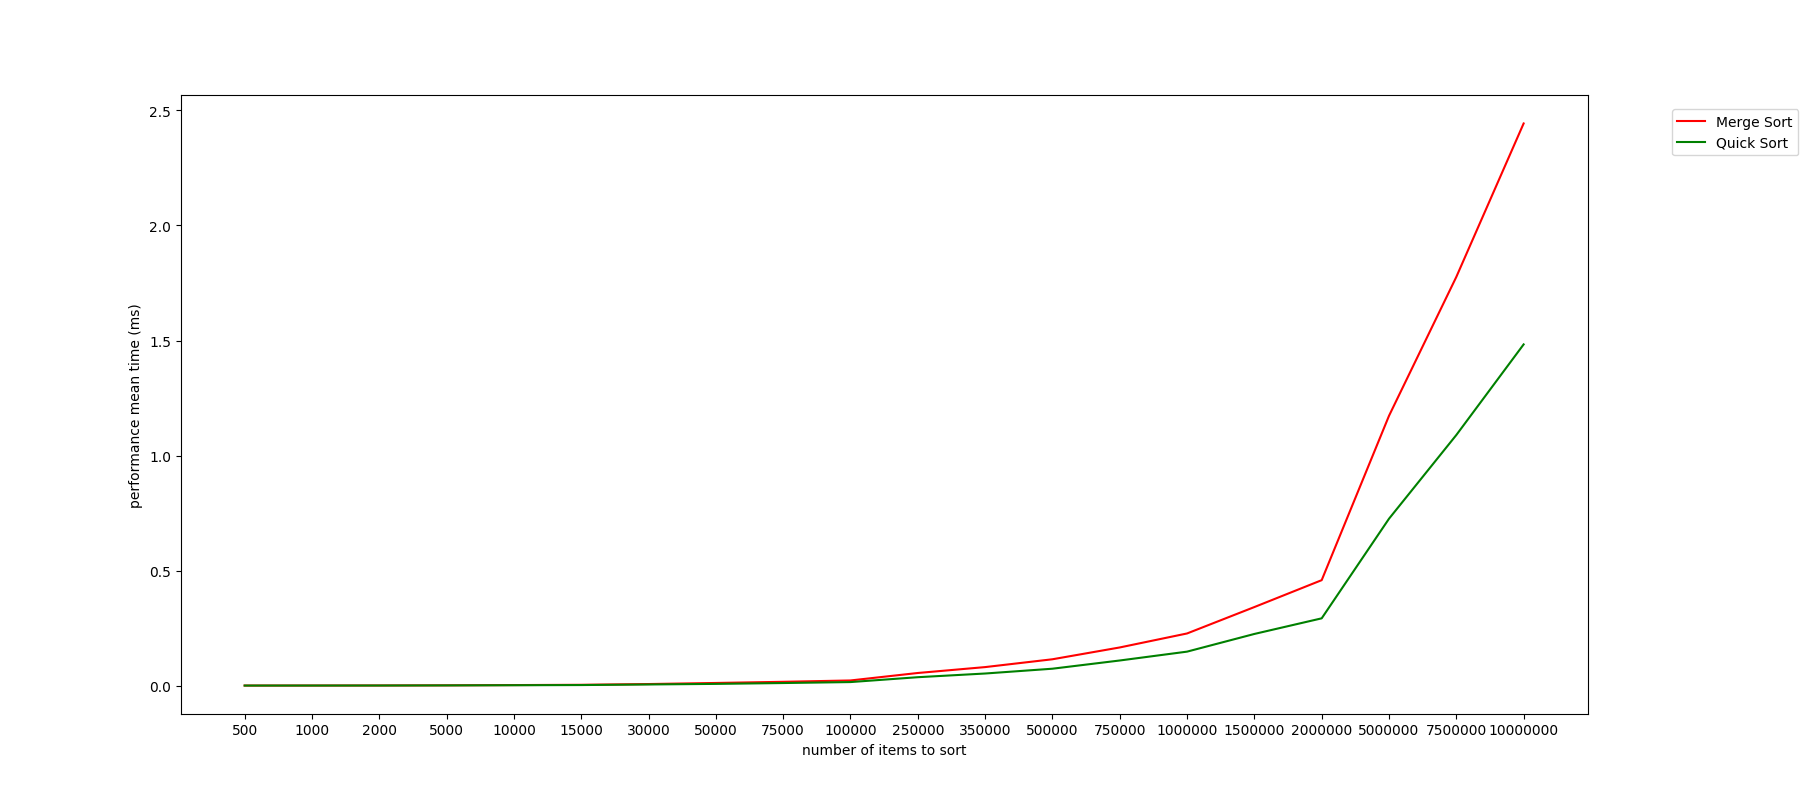
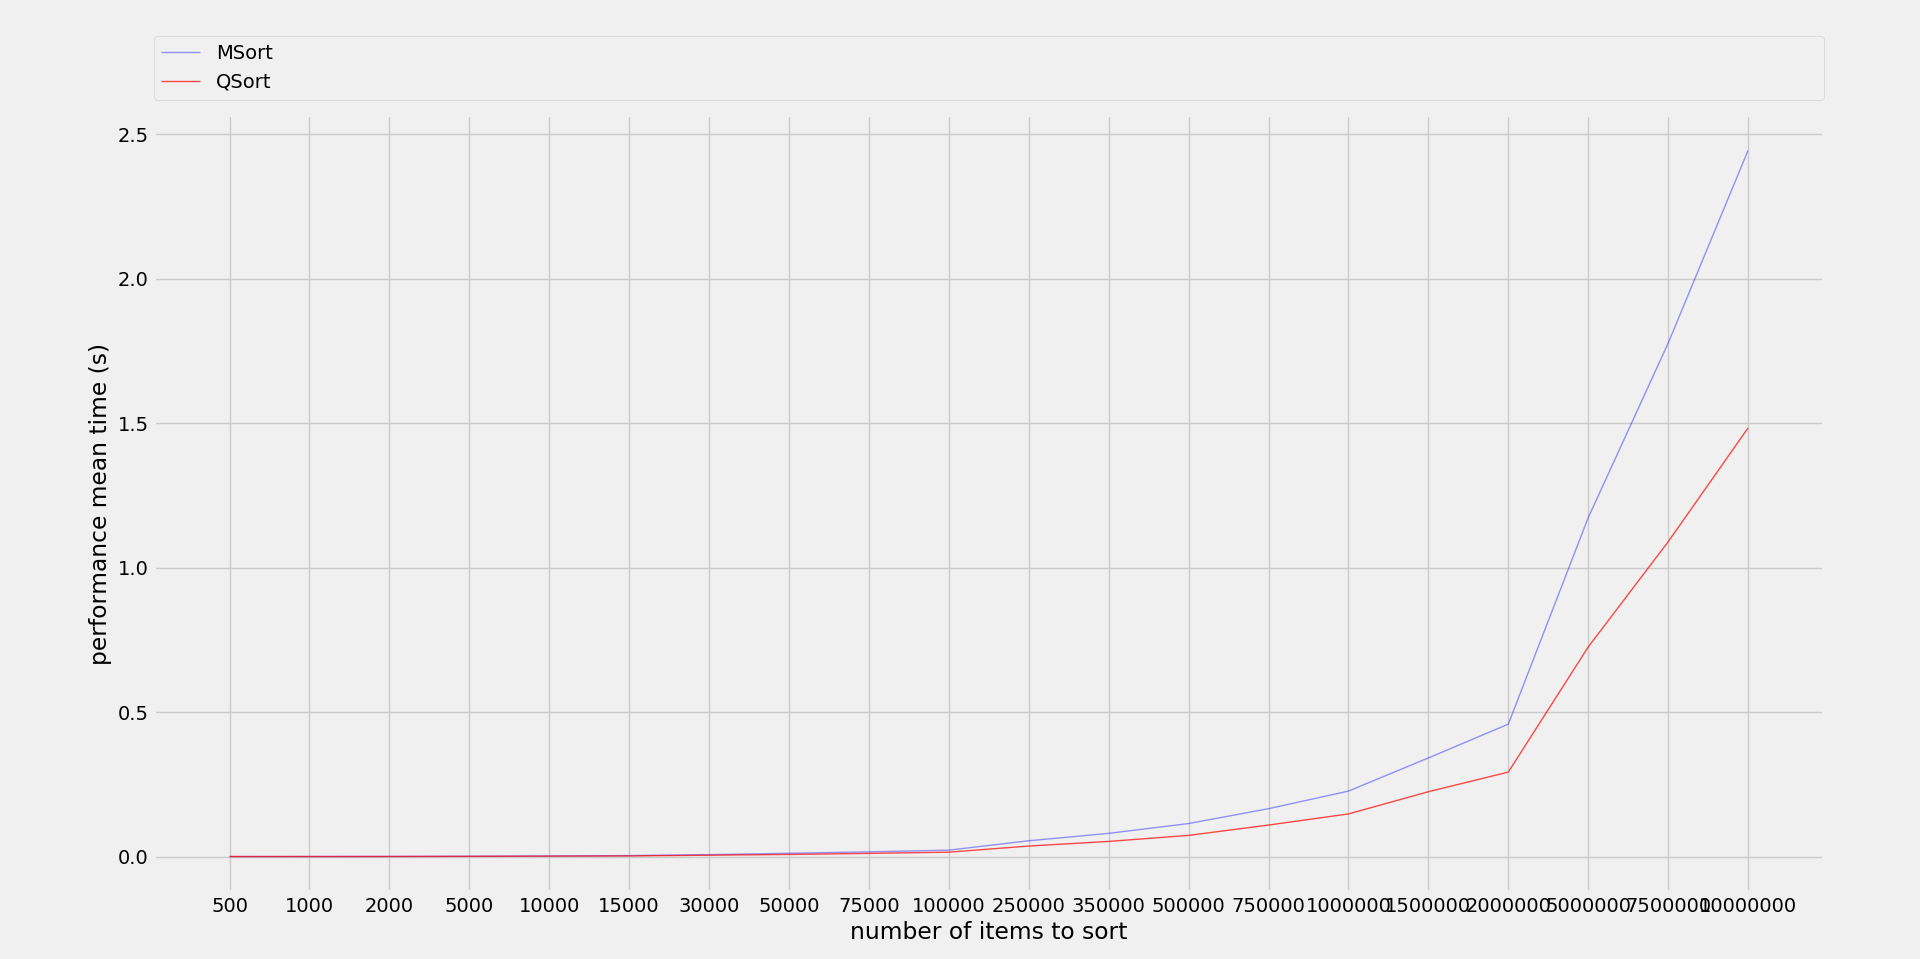
New update

diff --git a/src/quicksort_parallel.cpp b/src/quicksort_parallel.cpp
@@ -1,0 +1,113 @@
+
+#include <stdio.h>
+#include <stdlib.h>
+#include <time.h>
+#include <chrono>
+#include <iostream>
+#include <random>
+#include <algorithm>
+#include "mpi.h"
+#include <vector>
+
+using namespace std;
+
+const int LOWER = -100;
+const int UPPER = 100;
+const int DEF_SIZE = 100;
+
+void quicksort(int* array, int begin, int end);
+void hyperquicksort(int* array, int chunk, int size);
+
+int main(int argc, char** argv) {
+	auto start = std::chrono::system_clock::now();
+	int size = 0;
+	if(argc <= 1)
+		size = DEF_SIZE;
+	else 
+		size = atoi(argv[1]);
+	int rank, worldSize;
+	MPI_Init(NULL,NULL);
+	MPI_Comm_rank(MPI_COMM_WORLD, &rank);
+	MPI_Comm_size(MPI_COMM_WORLD, &worldSize);
+	int* unsorted = new int[size];
+	int* sorted = NULL;
+	if(rank == 0){
+		random_device randomDevice;
+		mt19937 mt(randomDevice());
+		uniform_int_distribution<int> dist(LOWER, UPPER);
+		for(int i = size; i--; )
+			unsorted[i] = dist(mt);
+	}
+    int chunk = size / worldSize;
+	int* subArray = new int[chunk];	
+    int middle = 0;
+    // Cada proceso comienza con un quicksort secuencial en su lista local
+    MPI_Scatter(unsorted, chunk, MPI_INT, subArray, chunk, MPI_INT, 0, MPI_COMM_WORLD);
+    quicksort(subArray, 0, chunk - 1);
+    MPI_Barrier(MPI_COMM_WORLD);
+    // Hyperquicksort
+    hyperquicksort(subArray, chunk, size);
+    for(int i = 0; i < worldSize; i++){
+        if(i != rank){
+        // Dividimos el array segun el pivote y lo compartimos
+        vector<int> lesser;
+        vector<int> greater;
+        for(int i = 0; i < size; i++){
+            if(array[i] < middle)
+                lesser.push_back(array[i]);
+            else
+                greater.push_back(array[i]);
+        }
+        int* lesserRaw = &lesser[0];
+        int* greaterRaw = &greater[0];
+        
+        }
+    }
+    return 0;
+}
+
+void hyperquicksort(int* array, int chunk, int size) {
+    if(rank == 0){ // El master elige el pivote
+        middle = subArray[(0 + chunk) / 2];
+        MPI_Bcast(&middle, sizeof(int), MPI_INT, 0, MPI_COMM_WORLD); // Lo envia al resto
+    }
+    MPI_Barrier(MPI_COMM_WORLD);
+    // Dividimos la lista
+    vector<int> lesser, greater;
+    for(int i = 0; i < chunk; i++){
+        if(array[i] < middle)
+            lesser.push_back(array[i]);
+        else
+            greater.push_back(array[i]);
+    }
+    int* lesserRaw = &lesser[0];
+    int* greaterRaw = &greater[0];
+    int* localList = new int[chunk];
+    int tag = 10;
+    
+    MPI_Send(greaterRaw, sizeof(greaterRaw), MPI_INT, dest, tag, 
+    MPI_COMM_WORLD);
+}
+
+void quicksort(int* array, int begin, int end) {
+	int pivot = array[(begin + end) / 2];
+	int i = begin, j = end;
+	while(i <= j){
+		while(array[i] < pivot)
+			i++;
+		while(array[j] > pivot)
+			j--;
+		if(i <= j){
+			int temp = array[i];
+			array[i] = array[j];
+			array[j] = temp;
+			i++;
+			j--;
+		}
+	}
+	if(begin < j)
+		quicksort(array, begin, j);
+	if(i < end)
+		quicksort(array, i, end);
+}
+

diff --git a/src/psrs.cpp b/src/psrs.cpp
@@ -1,0 +1,103 @@
+
+#include <stdio.h>
+#include <stdlib.h>
+#include <time.h>
+#include <chrono>
+#include <iostream>
+#include <random>
+#include <algorithm>
+#include "mpi.h"
+#include <vector>
+
+using namespace std;
+
+const int LOWER = -100;
+const int UPPER = 100;
+const int DEF_SIZE = 100;
+
+void quicksort(int* array, int begin, int end) {
+	int pivot = array[(begin + end) / 2];
+	int i = begin, j = end;
+	while(i <= j){
+		while(array[i] < pivot)
+			i++;
+		while(array[j] > pivot)
+			j--;
+		if(i <= j){
+			int temp = array[i];
+			array[i] = array[j];
+			array[j] = temp;
+			i++;
+			j--;
+		}
+	}
+	if(begin < j)
+		quicksort(array, begin, j);
+	if(i < end)
+		quicksort(array, i, end);
+}
+
+void sample(int* subArray, int* sampling, int size, int worldSize) {
+    int count = 0;
+    int index = 0;
+    int i = 0;
+    while(count < worldSize){
+        sampling[i] = subArray[index];
+        i++;
+        index = (i * size) / pow(wordlSize, 2);
+        count++;
+    }
+}
+
+void split(int* array, int size, int rank, int pieces, firstP, secondP) {
+    vector<vector<int>> partitions(pieces, vector<int>);
+    for(int i = 0; i < size; i++){
+        if(array[i] < firstP)
+           partitions[] 
+    }
+}
+
+int main(int argc, char** argv){
+    auto start = std::chrono::system_clock::now();
+	int size = 0;
+	if(argc <= 1)
+		size = DEF_SIZE;
+	else 
+		size = atoi(argv[1]);
+	int rank, worldSize;
+	MPI_Init(NULL,NULL);
+	MPI_Comm_rank(MPI_COMM_WORLD, &rank);
+	MPI_Comm_size(MPI_COMM_WORLD, &worldSize);
+	int* unsorted = new int[size];
+	int* sorted = NULL;
+	if(rank == 0){
+		random_device randomDevice;
+		mt19937 mt(randomDevice());
+		uniform_int_distribution<int> dist(LOWER, UPPER);
+		for(int i = size; i--; )
+			unsorted[i] = dist(mt);
+	}
+    int chunk = size / worldSize;
+	int* subArray = new int[chunk];	
+    // Cada proceso comienza con un quicksort secuencial en su lista local
+    MPI_Scatter(unsorted, chunk, MPI_INT, subArray, chunk, MPI_INT, 0, MPI_COMM_WORLD);
+    quicksort(subArray, 0, chunk - 1);
+    int* sampling = new int[worldSize];
+    sample(subArray, sampling, size, worldSize);
+    int* local = new int[worldSize * worldSize];
+    MPI_Gather(sampling, sizeof(sampling), MPI_INT, local, sizeof(sampling), MPI_INT, 0, MPI_COMM_WORLD);
+    quicksort(local, 0, (worldSize * worldSize) - 1);
+    int firstPivot = 0, secondPivot = 0;
+    if(rank == 0){ // Obtenemos los pivotes
+        int index = (worldSize * worldSize) / 2;
+        firstPivot = local[index];
+        secondPivot = local[index + worldSize];
+        MPI_Bcast(&firstPivot, sizeof(firstPivot), MPI_INT, 0, MPI_COMM_WORLD);
+        MPI_Bcast(&secondPivot, sizeof(secondPivot), MPI_INT, 0, 
+        MPI_COMM_WORLD);
+    }
+    // Particionar e intercambiar
+    // Dividimos cada subArray en P-1 trozos
+    split(subArray, chunk, rank, worldSize, firstPivot, secondPivot);    
+    return 0;
+}

diff --git a/results/quicksort/sequential_metrics.rs b/results/quicksort/sequential_metrics.rs
@@ -124,45 +124,3 @@
 5000000, 0.7253494, 0.7275535, 0.010361413834
 7500000, 1.089237, 1.08958, 0.0076867588098
 10000000, 1.483123, 1.48047, 0.0221647165784
-#size, mean, median, standard deviation
-500, 9.7531e-05, 9.26795e-05, 9.61426386158e-06
-1000, 0.0001815376, 0.0001787155, 2.15632354678e-05
-2000, 0.0003045636, 0.0003026985, 6.5694702861e-06
-5000, 0.0007824273, 0.0007697245, 6.9902377323e-05
-10000, 0.001535319, 0.00153215, 8.73539881688e-05
-15000, 0.002325177, 0.002246005, 0.000173005693146
-30000, 0.004847512, 0.004993785, 0.000482791466677
-50000, 0.007391328, 0.00721534, 0.000540749034281
-75000, 0.01109568, 0.0108619, 0.00052166548822
-100000, 0.01528151, 0.0154232, 0.000862839289149
-250000, 0.03645019, 0.03620585, 0.0016414838284
-350000, 0.05247912, 0.052552, 0.00133405452947
-500000, 0.07337356, 0.0732865, 0.000921102103135
-750000, 0.1090757, 0.1099085, 0.0027505704881
-1000000, 0.1475729, 0.14708, 0.00314166349089
-1500000, 0.2244476, 0.2252815, 0.00618023901156
-2000000, 0.2923487, 0.2921965, 0.00711260838301
-5000000, 0.7253494, 0.7275535, 0.010361413834
-7500000, 1.089237, 1.08958, 0.0076867588098
-10000000, 1.483123, 1.48047, 0.0221647165784
-#size, mean, median, standard deviation
-500, 9.7531e-05, 9.26795e-05, 9.61426386158e-06
-1000, 0.0001815376, 0.0001787155, 2.15632354678e-05
-2000, 0.0003045636, 0.0003026985, 6.5694702861e-06
-5000, 0.0007824273, 0.0007697245, 6.9902377323e-05
-10000, 0.001535319, 0.00153215, 8.73539881688e-05
-15000, 0.002325177, 0.002246005, 0.000173005693146
-30000, 0.004847512, 0.004993785, 0.000482791466677
-50000, 0.007391328, 0.00721534, 0.000540749034281
-75000, 0.01109568, 0.0108619, 0.00052166548822
-100000, 0.01528151, 0.0154232, 0.000862839289149
-250000, 0.03645019, 0.03620585, 0.0016414838284
-350000, 0.05247912, 0.052552, 0.00133405452947
-500000, 0.07337356, 0.0732865, 0.000921102103135
-750000, 0.1090757, 0.1099085, 0.0027505704881
-1000000, 0.1475729, 0.14708, 0.00314166349089
-1500000, 0.2244476, 0.2252815, 0.00618023901156
-2000000, 0.2923487, 0.2921965, 0.00711260838301
-5000000, 0.7253494, 0.7275535, 0.010361413834
-7500000, 1.089237, 1.08958, 0.0076867588098
-10000000, 1.483123, 1.48047, 0.0221647165784

diff --git a/scripts/composed_plots.py b/scripts/composed_plots.py
@@ -16,7 +16,7 @@ mean_algorithm2 = []
 limit = 10000000
 
 def usage():
-    print("$ python sequential_metrics.py <path_to_data_file> <path_to_data_file>\n")
+    print("$ python composed_plots.py <path_to_data_file> <path_to_data_file>\n")
 
 def read_data(path, alg):
     filename = basedir + path    
@@ -54,12 +54,14 @@ def compute_metrics(alg):
 
 def generate_plot():
     x_data = [i for i in range(0, len(index_array))]
+    plt.style.use('fivethirtyeight')
     plt.xticks(x_data, index_array)
-    plt.plot(x_data, mean_algorithm1, 'r', label="Merge Sort")
-    plt.plot(x_data, mean_algorithm2, 'g', label="Quick Sort")
-    plt.ylabel("performance mean time (ms)")
+    plt.plot(x_data, mean_algorithm1, color='blue', linewidth=1, alpha=0.4, label='MSort')
+    plt.plot(x_data, mean_algorithm2, color='red', linewidth=1, alpha=0.7, label='QSort')
+    plt.ylabel("performance mean time (s)")
     plt.xlabel("number of items to sort")
-    plt.legend(bbox_to_anchor=(1.05, 1), loc=2, borderaxespad=1.)
+    plt.legend(bbox_to_anchor=(0., 1.02, 1., .102), loc=3, ncol=1, mode="expand", borderaxespad=0)
+  #  plt.legend([mean_algorithm1, mean_algorithm2], ["Merge Sort", "Quick Sort"])
     plt.show()
 
 def main(argv):

diff --git a/scripts/sequential_metrics.py b/scripts/sequential_metrics.py
@@ -47,14 +47,16 @@ def compute_metrics(path):
             file.write(string)
 
 def generate_plot():
-    f, ax = plt.subplots(1)
+    #f, ax = plt.subplots(1)
     x_data = [i for i in range(0, len(index_array))]
     y_data = mean
+    plt.style.use('fivethirtyeight')
     plt.xticks(x_data, index_array)
-    ax.plot(x_data, y_data)
-    plt.ylabel("performance mean time (ms)")
+   # ax.plot(x_data, y_data)
+    plt.plot(x_data, y_data, color='blue', linewidth=1.5, alpha=0.4, label='QSort')
+    plt.ylabel("performance mean time (s)")
     plt.xlabel("number of items to sort")
-    plt.show(f)
+    plt.show()
 
 def main(argv):
     if(len(argv)!= args):

diff --git a/scripts/plots_speedup.py b/scripts/plots_speedup.py
@@ -41,6 +41,7 @@ def compute_times():
 def create_plot():
     x  = index_array[2:]
     y = times[2:]
+    plt.style.use('fivethirtyeight')
     plt.plot(x, y, linewidth=2.0)
     plt.ylabel("speed-up")
     plt.xlabel("number of processors")
